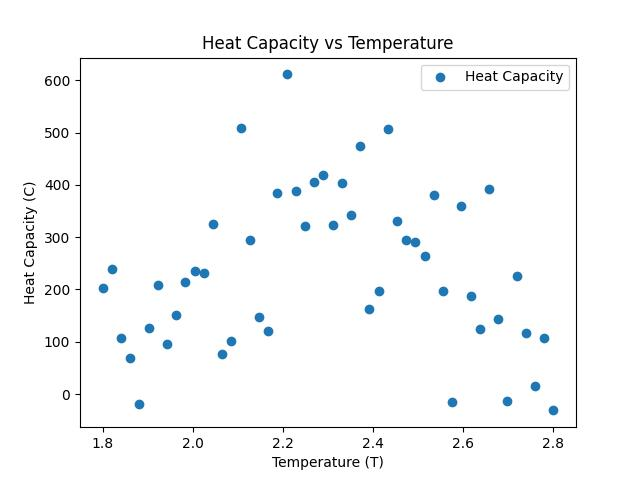
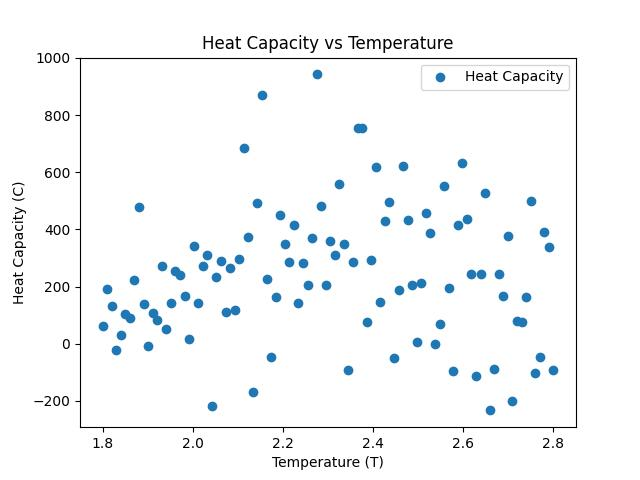
Update file via PyCharm Version Control

diff --git a/nD_with_mp/n-D Ising Model_v3.2.py b/nD_with_mp/n-D Ising Model_v3.2.py
@@ -301,14 +301,14 @@ if __name__ == '__main__':
     ### CHANGE 1: Use narrower T-range, more steps, random init
     dimension = 2
     # We'll do multiple L in FSS, but let's define a "base" L for single-lattice plots
-    lattice_size = 16
+    lattice_size = 128
 
     random_init = True
-    steps_MC = 1000     # Increased to help with equilibration
+    steps_MC = 1250     # Increased to help with equilibration
     n_runs = 100
     T_min = 1.8         # Focus near the known 2D Tc ~ 2.27
     T_max = 2.8
-    num_T = 50          # More temperature points for finer resolution
+    num_T = 100          # More temperature points for finer resolution
     J = 1.0
     B = 0.0
 
@@ -365,7 +365,7 @@ if __name__ == '__main__':
 
     # ---------------------- Finite-Size Scaling (FSS) Analysis ----------------------
     # Example: Lattice sizes for FSS
-    lattice_sizes = [8, 16, 32, 64]
+    ##############################################################lattice_sizes = [8, 16, 32, 64]
 
     # We'll re-use the T_vals from T_min to T_max, num_T
     data = {}
